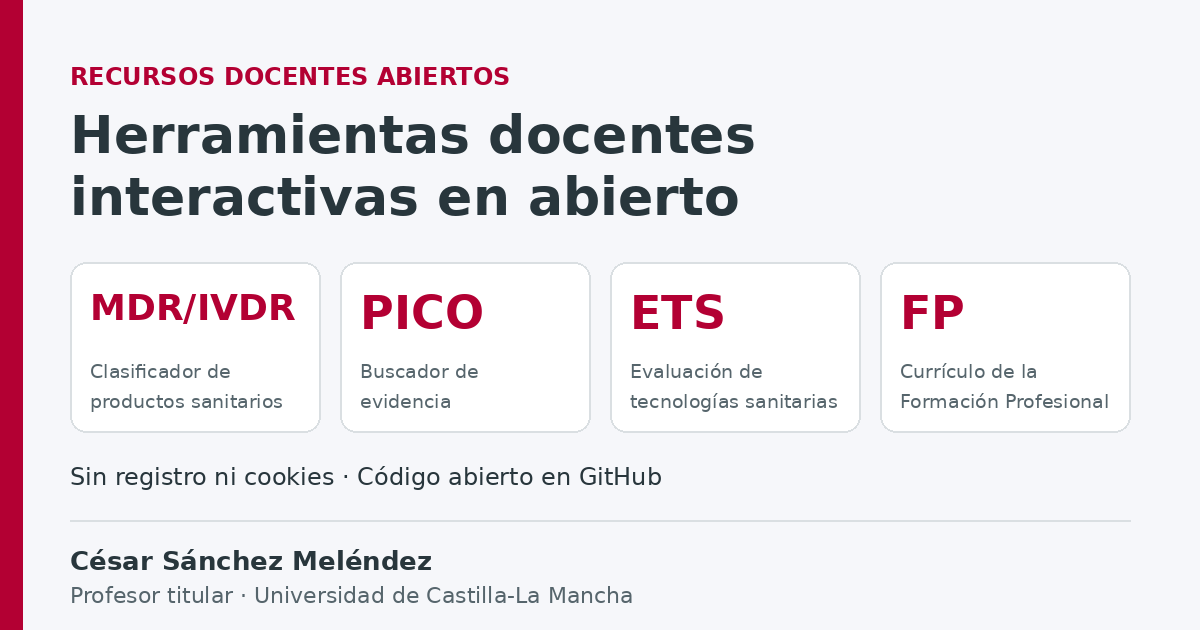
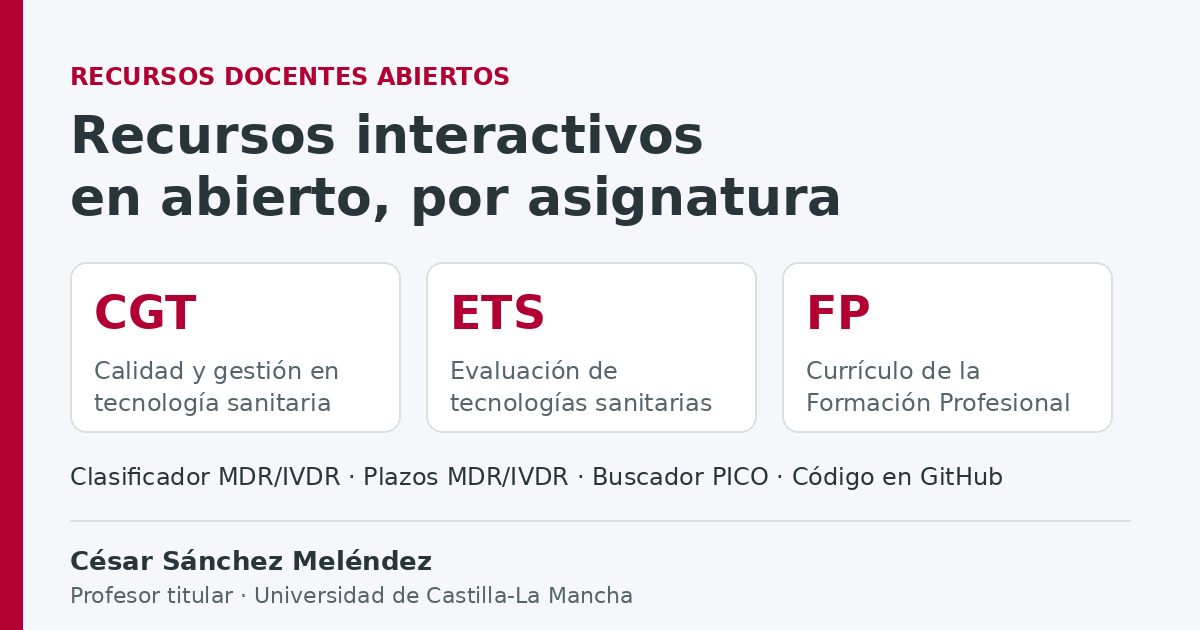
Add files via upload

diff --git a/img/og_recursos.py b/img/og_recursos.py
@@ -6,9 +6,9 @@ B,R="DejaVuSans-Bold.ttf","DejaVuSans.ttf"
 im=Image.new("RGB",(W,H),BG); d=ImageDraw.Draw(im); d.rectangle([0,0,22,H],fill=RED)
 x=70
 d.text((x,62),"RECURSOS DOCENTES ABIERTOS",font=f(B,24),fill=RED)
-d.text((x,104),"Herramientas y materiales",font=f(B,52),fill=INK)
-d.text((x,166),"de tecnología sanitaria",font=f(B,52),fill=INK)
-cols=[("MDR/IVDR",["Clasificador de","productos sanitarios"]),("PICO",["Buscador de","evidencia"]),("Vídeos",["Protocolos de","electromedicina"])]
+d.text((x,104),"Recursos interactivos",font=f(B,52),fill=INK)
+d.text((x,166),"en abierto, por asignatura",font=f(B,52),fill=INK)
+cols=[("CGT",["Calidad y gestión en","tecnología sanitaria"]),("ETS",["Evaluación de","tecnologías sanitarias"]),("FP",["Currículo de la","Formación Profesional"])]
 cx=x
 for big,lab in cols:
     d.rounded_rectangle([cx,262,cx+330,432],radius=16,fill=(255,255,255),outline=LINE,width=2)
@@ -16,7 +16,7 @@ for big,lab in cols:
     d.text((cx+24,356),lab[0],font=f(R,24),fill=GREY)
     d.text((cx+24,388),lab[1],font=f(R,24),fill=GREY)
     cx+=356
-d.text((x,462),"Gratuitos · Sin registro · Funcionan en el navegador",font=f(R,24),fill=INK)
+d.text((x,462),"Clasificador MDR/IVDR · Plazos MDR/IVDR · Buscador PICO · Código en GitHub",font=f(R,24),fill=INK)
 d.line([(70,520),(W-70,520)],fill=LINE,width=2)
 d.text((x,545),"César Sánchez Meléndez",font=f(B,26),fill=INK)
 d.text((x,582),"Profesor titular · Universidad de Castilla-La Mancha",font=f(R,22),fill=GREY)
